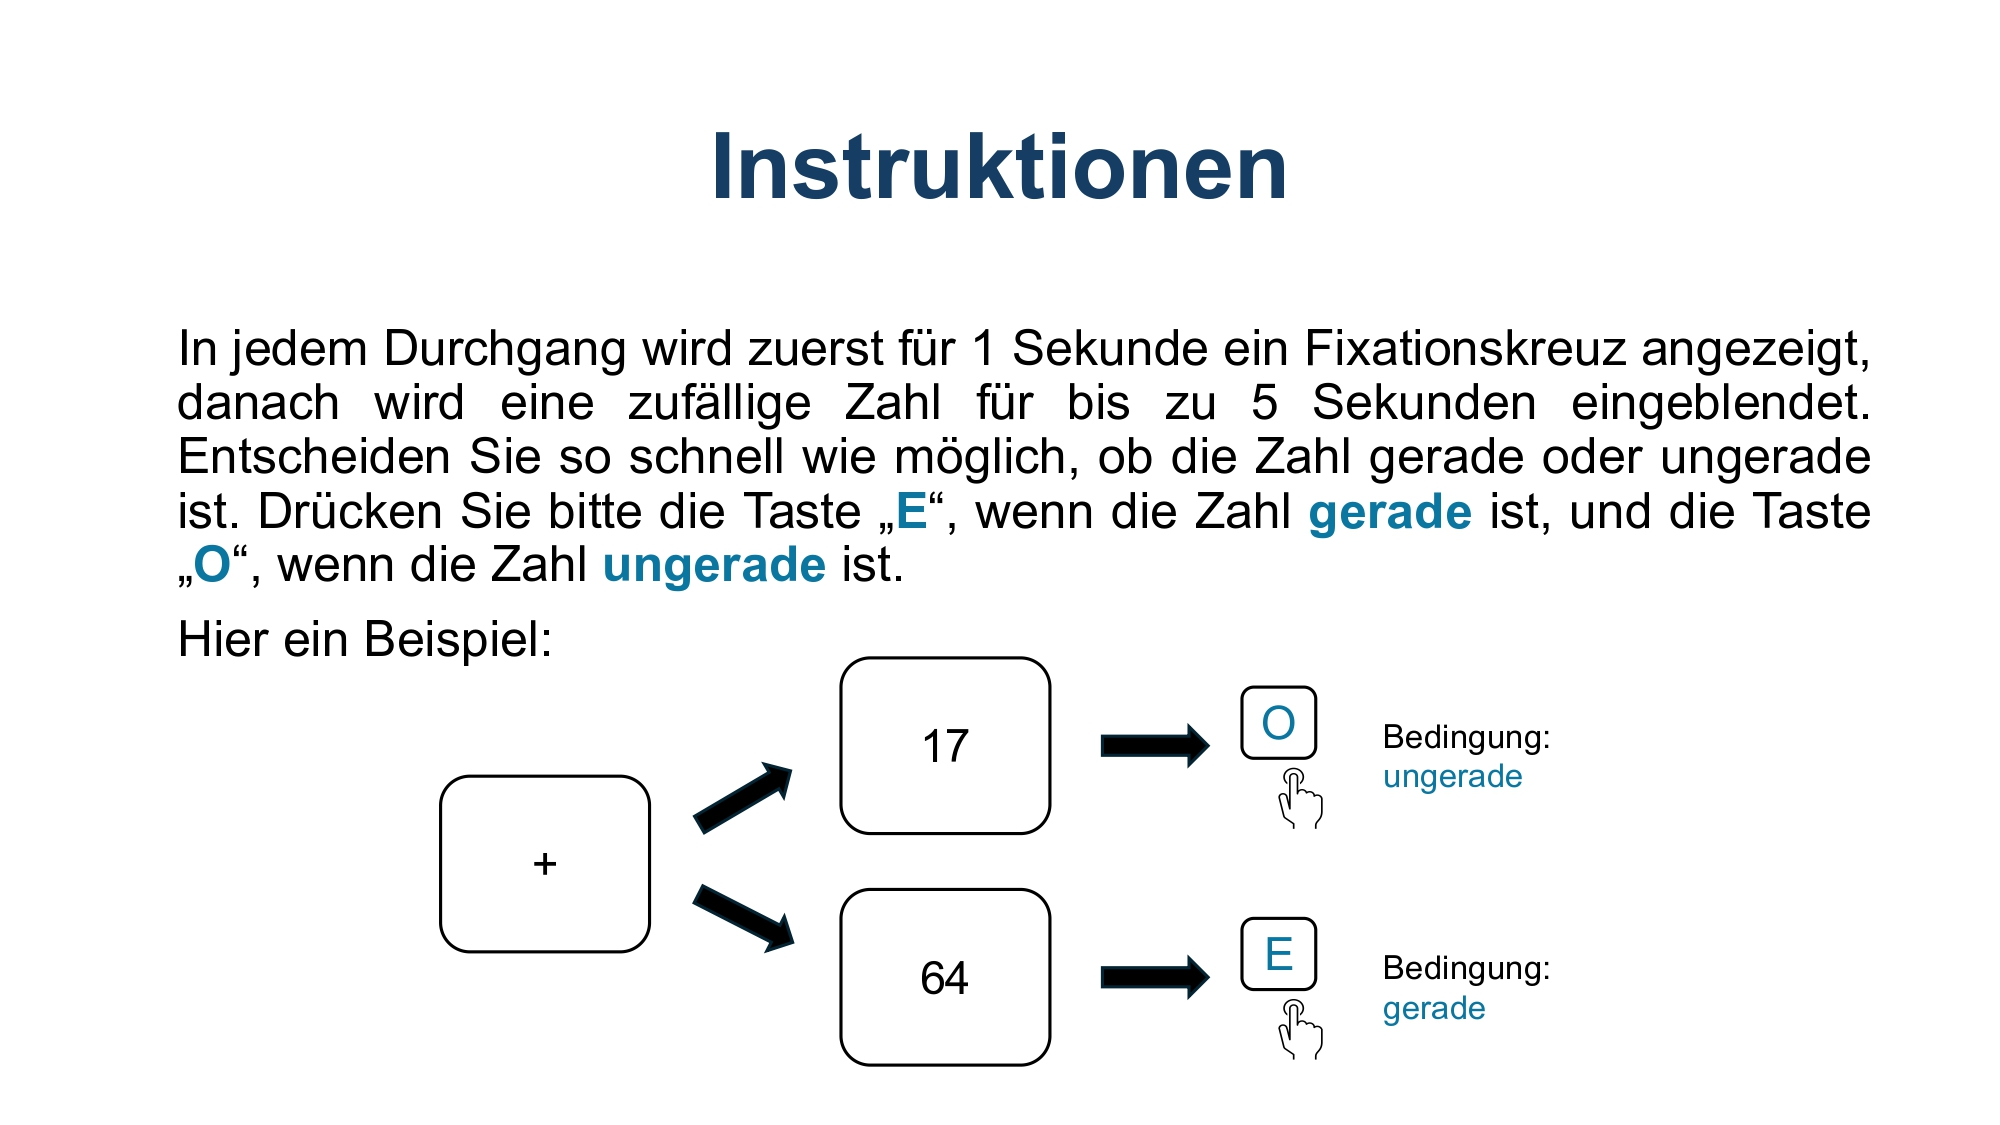
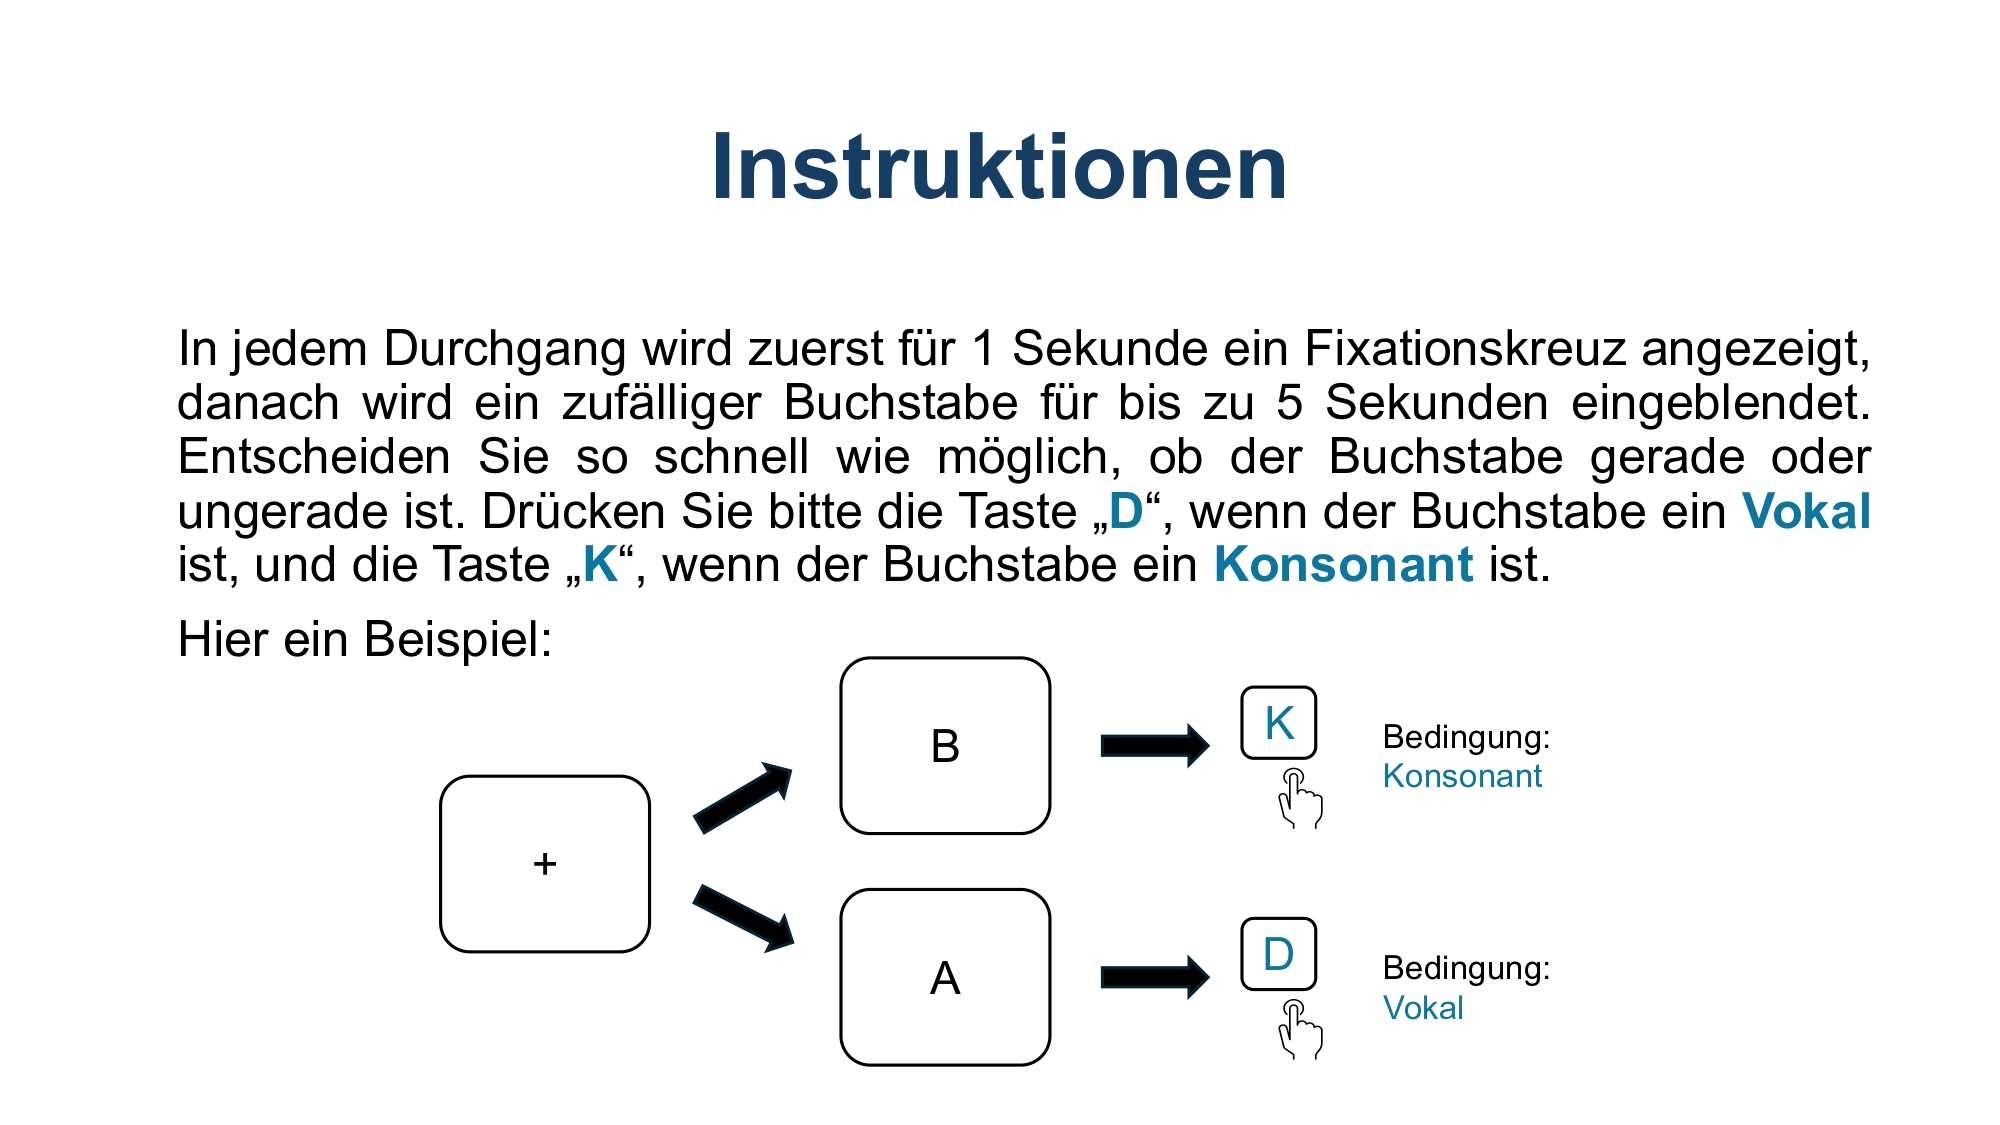
Added Mapping, Adjusted Instructions, Resolved Issues with the end-screens

diff --git a/tasks/letter-judgement/src/trials/trialProcess.ts b/tasks/letter-judgement/src/trials/trialProcess.ts
@@ -7,6 +7,7 @@ import { expInfo } from "../settings";
 import htmlKeyboardResponse from "@jspsych/plugin-html-keyboard-response";
 import { jsPsych } from "../jsp";
 import psychophysics from "@kurokida/jspsych-psychophysics";
+import exp from "constants";
 
 /**
  * A function used to create a single trial.
@@ -27,11 +28,15 @@ export function createNewTrial(XY: number, isPractice: boolean, condition: strin
     trial_duration: expInfo.TIMING.FIXATION,
   }
 
-  // Taget and Response Screen 
+  // Target and Response Screen 
   const target_response_screen = {
     type: htmlKeyboardResponse,
     stimulus: `<div style='font-size:50px;'> ${targetStim} </div>`,
     choices: expInfo.DESIGN.CHOICES, 
+    mapping: {
+      vowel: expInfo.DESIGN.CHOICES[expInfo.DESIGN.MAPPING[expInfo.DESIGN.CONDITIONS.indexOf("vowel")]], 
+      consonant: expInfo.DESIGN.CHOICES[expInfo.DESIGN.MAPPING[expInfo.DESIGN.CONDITIONS.indexOf("consonant")]],
+    },
     trial_duration: expInfo.TIMING.TARGET,
     response_ends_trial: true,
     data: {
@@ -51,12 +56,12 @@ export function createNewTrial(XY: number, isPractice: boolean, condition: strin
       stimulus: targetStim, 
     },
     on_finish: function (data) {
-      let correct = data.response == (data.is_vowel ? 'e' : 'o');
+      let correct = data.response == (data.is_vowel ? this.mapping.vowel : this.mapping.consonant);
       jsPsych.data.get().addToLast({correct: correct});
       
       let stimulus_value = jsPsych.data.get().last(1).values()[0];
       stimulus_value.stimulus = targetStim;
-    }
+    } 
   }
 
   // Feedback Stimuls for Practice Trials

diff --git a/tasks/letter-judgement/src/instructions/browserCheck.ts b/tasks/letter-judgement/src/instructions/browserCheck.ts
@@ -9,9 +9,7 @@ export const browser_screen = {
   minimum_width: Math.max(screen.width * 0.9, 1200), // minimum width of the window,
   minimum_height: Math.max(screen.height * 0.75, 550), // minimum height of the window
   on_finish: function (data) {
-    if (data.width < Math.max(screen.width * 0.9, 1200)){
-      return END_INFO.failedResize[expInfo.LANG];
-    }
+    if (data.width < Math.max(screen.width * 0.9, 1200))
     varSystem.STATUS = "failed_resize";
   },
 };

diff --git a/tasks/letter-judgement/src/settings.ts b/tasks/letter-judgement/src/settings.ts
@@ -21,7 +21,8 @@ export const expInfo = {
     nPRACTICE: 10, // number of practice trials for each condition
     nBLOCKS: 1, // number of blocks
     CONDITIONS: ["vowel","consonant"], // conditions of the experiment
-    CHOICES: ["o", "e"], // choices for the participants
+    CHOICES: ["d", "k"], // choices for the participants
+    MAPPING: [0, 1] // mapping of the conditions to the choices
   },
   
   // settings for each trial
